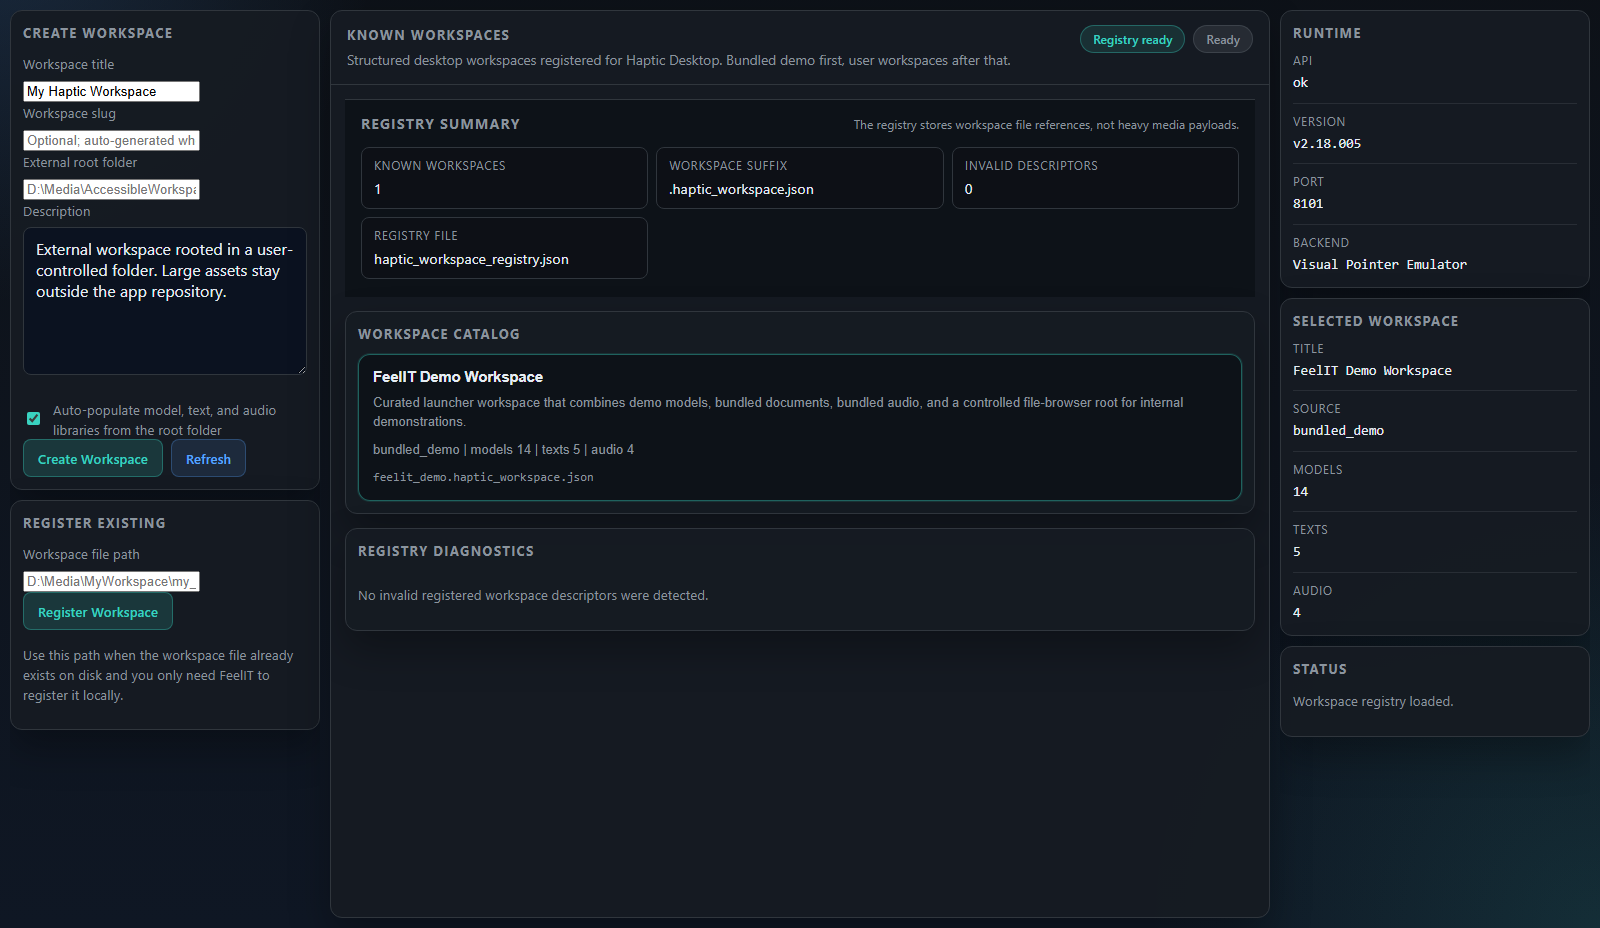
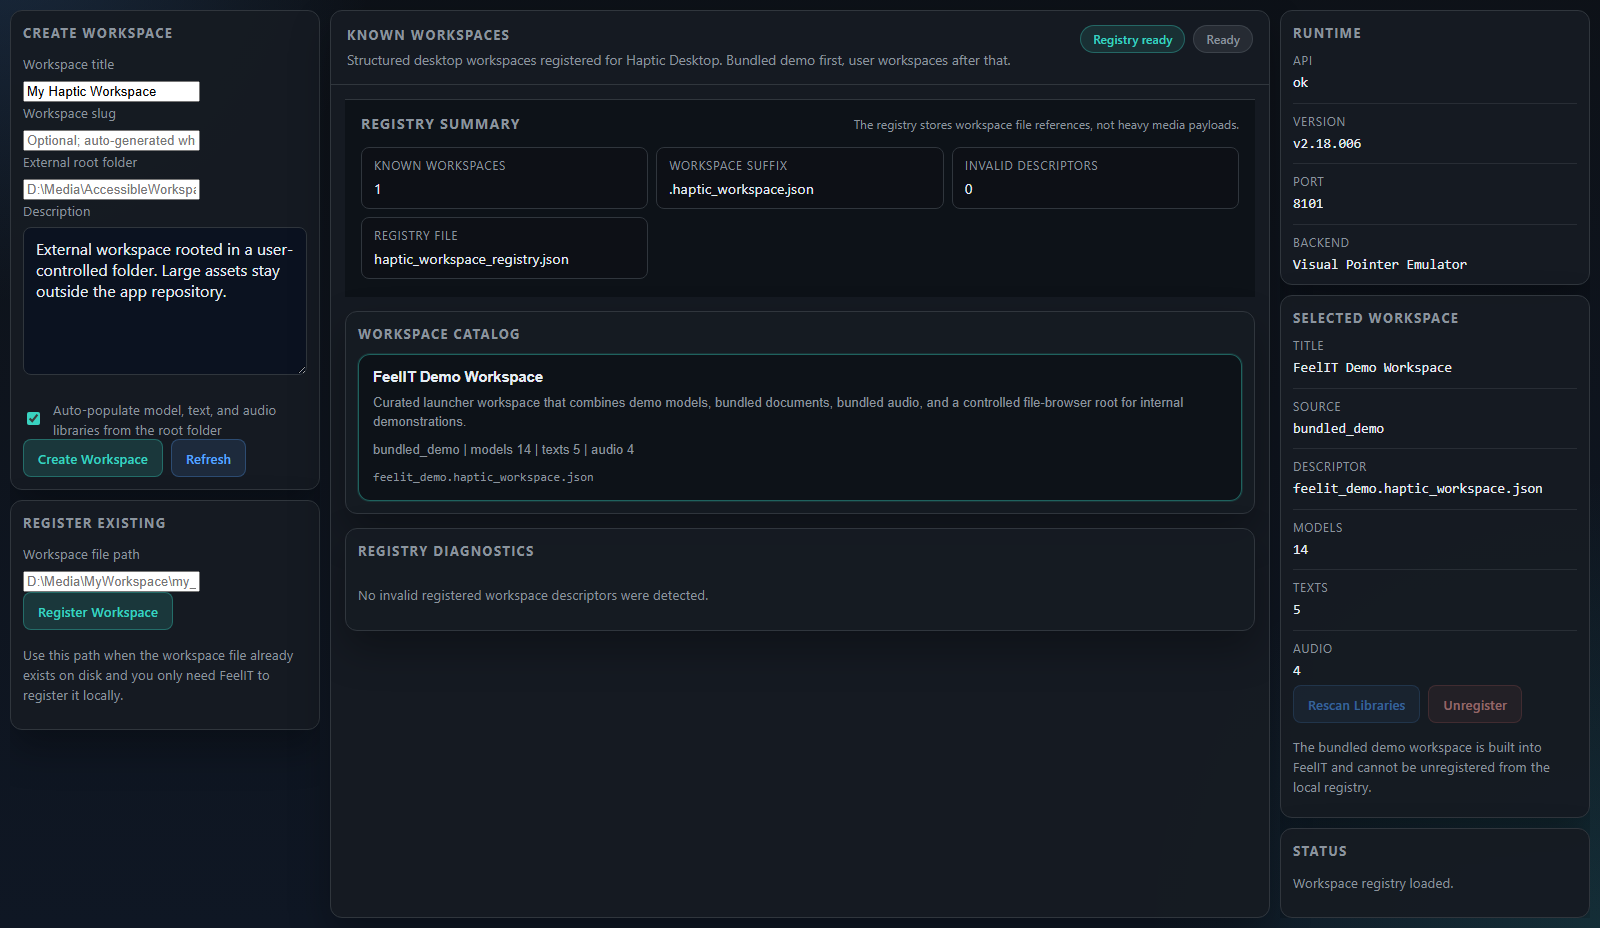
Expose workspace lifecycle controls in the manager UI

diff --git a/app/static/js/haptic_workspace_manager.js b/app/static/js/haptic_workspace_manager.js
@@ -19,21 +19,45 @@ function setStatus(message, pillText = message) {
   byId("manager-page-status").textContent = pillText;
 }
 
+function selectedWorkspace() {
+  return state.workspaces.find((workspace) => workspace.slug === state.selectedSlug) ?? null;
+}
+
+function syncSelectedWorkspaceActions(workspace) {
+  const canManage = Boolean(workspace?.can_unregister);
+  byId("rescan-workspace").disabled = !workspace?.can_rescan;
+  byId("unregister-workspace").disabled = !canManage;
+
+  if (!workspace) {
+    byId("selected-workspace-action-note").textContent =
+      "Select one registry-backed workspace to manage its lifecycle.";
+    return;
+  }
+
+  byId("selected-workspace-action-note").textContent = canManage
+    ? "Rescan rebuilds the library lists from the current workspace root. Unregister removes the descriptor reference from the local registry only."
+    : "The bundled demo workspace is built into FeelIT and cannot be unregistered from the local registry.";
+}
+
 function renderSelectedWorkspace(workspace) {
   if (!workspace) {
     byId("selected-workspace-title").textContent = "--";
     byId("selected-workspace-source").textContent = "--";
+    byId("selected-workspace-file").textContent = "--";
     byId("selected-workspace-models").textContent = "--";
     byId("selected-workspace-texts").textContent = "--";
     byId("selected-workspace-audio").textContent = "--";
+    syncSelectedWorkspaceActions(null);
     return;
   }
 
   byId("selected-workspace-title").textContent = workspace.title;
   byId("selected-workspace-source").textContent = workspace.registry_source;
+  byId("selected-workspace-file").textContent = workspace.workspace_file_label;
   byId("selected-workspace-models").textContent = String(workspace.category_counts.models);
   byId("selected-workspace-texts").textContent = String(workspace.category_counts.texts);
   byId("selected-workspace-audio").textContent = String(workspace.category_counts.audio);
+  syncSelectedWorkspaceActions(workspace);
 }
 
 function renderWorkspaceList() {
@@ -109,7 +133,34 @@ function renderInvalidWorkspaceList() {
     path.className = "workspace-card-path";
     path.textContent = workspace.workspace_file_label;
 
-    card.append(title, description, meta, path);
+    const actions = document.createElement("div");
+    actions.className = "workspace-card-actions";
+
+    if (workspace.can_repair) {
+      const repairButton = document.createElement("button");
+      repairButton.type = "button";
+      repairButton.className = "btn btn-secondary";
+      repairButton.textContent = "Repair + Rescan";
+      repairButton.addEventListener("click", () => {
+        repairInvalidWorkspace(workspace).catch((error) => setStatus(error.message, "Repair failed"));
+      });
+      actions.appendChild(repairButton);
+    }
+
+    if (workspace.can_unregister) {
+      const forgetButton = document.createElement("button");
+      forgetButton.type = "button";
+      forgetButton.className = "btn btn-danger";
+      forgetButton.textContent = "Forget Entry";
+      forgetButton.addEventListener("click", () => {
+        unregisterWorkspaceByRegistryKey(workspace.registry_key, workspace.workspace_file_label, "Forgot").catch(
+          (error) => setStatus(error.message, "Forget failed"),
+        );
+      });
+      actions.appendChild(forgetButton);
+    }
+
+    card.append(title, description, meta, path, actions);
     container.appendChild(card);
   });
 }
@@ -176,6 +227,42 @@ async function registerWorkspace() {
   await refreshCatalog();
 }
 
+async function unregisterWorkspaceByRegistryKey(registryKey, workspaceLabel, pillText = "Unregistered") {
+  await fetchJson(`/api/haptic-workspaces/${registryKey}`, {
+    method: "DELETE",
+  });
+  setStatus(`${workspaceLabel} was removed from the local registry.`, pillText);
+  await refreshCatalog();
+}
+
+async function rescanSelectedWorkspace() {
+  const workspace = selectedWorkspace();
+  if (!workspace?.can_rescan) {
+    return;
+  }
+  const response = await fetchJson(`/api/haptic-workspaces/${workspace.slug}/rescan`, {
+    method: "POST",
+  });
+  setStatus(`Rescanned workspace ${response.workspace.title}.`, "Rescanned");
+  await refreshCatalog();
+}
+
+async function unregisterSelectedWorkspace() {
+  const workspace = selectedWorkspace();
+  if (!workspace?.can_unregister) {
+    return;
+  }
+  await unregisterWorkspaceByRegistryKey(workspace.registry_key, workspace.title);
+}
+
+async function repairInvalidWorkspace(workspace) {
+  const response = await fetchJson(`/api/haptic-workspaces/invalid/${workspace.registry_key}/repair`, {
+    method: "POST",
+  });
+  setStatus(`Repaired workspace ${response.workspace.title}.`, "Repaired");
+  await refreshCatalog();
+}
+
 document.addEventListener("DOMContentLoaded", () => {
   bootWorkspace(
     {
@@ -199,6 +286,12 @@ document.addEventListener("DOMContentLoaded", () => {
       });
       byId("register-workspace").addEventListener("click", () => {
         registerWorkspace().catch((error) => setStatus(error.message, "Register failed"));
+      });
+      byId("rescan-workspace").addEventListener("click", () => {
+        rescanSelectedWorkspace().catch((error) => setStatus(error.message, "Rescan failed"));
+      });
+      byId("unregister-workspace").addEventListener("click", () => {
+        unregisterSelectedWorkspace().catch((error) => setStatus(error.message, "Unregister failed"));
       });
       byId("refresh-workspaces").addEventListener("click", () => {
         refreshCatalog().catch((error) => setStatus(error.message, "Refresh failed"));

diff --git a/app/static/haptic_workspace_manager.html b/app/static/haptic_workspace_manager.html
@@ -139,10 +139,16 @@
           <dl class="info-grid">
             <div><dt>Title</dt><dd id="selected-workspace-title">--</dd></div>
             <div><dt>Source</dt><dd id="selected-workspace-source">--</dd></div>
+            <div><dt>Descriptor</dt><dd id="selected-workspace-file">--</dd></div>
             <div><dt>Models</dt><dd id="selected-workspace-models">--</dd></div>
             <div><dt>Texts</dt><dd id="selected-workspace-texts">--</dd></div>
             <div><dt>Audio</dt><dd id="selected-workspace-audio">--</dd></div>
           </dl>
+          <div class="button-row panel-actions">
+            <button id="rescan-workspace" class="btn btn-secondary" type="button">Rescan Libraries</button>
+            <button id="unregister-workspace" class="btn btn-danger" type="button">Unregister</button>
+          </div>
+          <p id="selected-workspace-action-note" class="panel-text">Select one registry-backed workspace to manage its lifecycle.</p>
         </section>
 
         <section class="panel-section">

diff --git a/app/static/css/style.css b/app/static/css/style.css
@@ -431,6 +431,16 @@ input[type="range"] {
   background: rgba(88, 166, 255, 0.22);
 }
 
+.btn-danger {
+  background: rgba(255, 123, 114, 0.12);
+  color: #ffb0aa;
+  border-color: rgba(255, 123, 114, 0.28);
+}
+
+.btn-danger:hover {
+  background: rgba(255, 123, 114, 0.2);
+}
+
 .btn-link {
   display: inline-flex;
   align-items: center;
@@ -876,6 +886,11 @@ input[type="range"] {
   word-break: break-word;
   font-family: "Consolas", "Courier New", monospace;
   font-size: 0.76rem;
+}
+
+.workspace-card-actions,
+.panel-actions {
+  margin-top: 4px;
 }
 
 .workspace-card-static {

diff --git a/app/core/version.py b/app/core/version.py
@@ -5,7 +5,7 @@ from __future__ import annotations
 import re
 
 APP_NAME = "FeelIT"
-APP_VERSION = "2.18.005"
+APP_VERSION = "2.18.006"
 APP_PUBLISHER = "Felipe Santibanez"
 VERSION_FORMAT = "X.XX.XXX"
 VERSION_PATTERN = re.compile(r"^(?P<major>\d+)\.(?P<minor>\d{2})\.(?P<patch>\d{3})$")

diff --git a/README.md b/README.md
@@ -80,11 +80,11 @@ The contact pipeline captures the current design rule for future native hardware
 | Bundled reading-source formats | `txt`, `html`, `epub` |
 | Local multi-file bundle intake | bundle-aware `gltf` sidecar resolution with explicit main-file selection |
 | Public port | `8101` |
-| Release-synced version | `2.18.005` |
+| Release-synced version | `2.18.006` |
 | Haptic backend candidates tracked | `4` |
 | Native bridge bootstrap surface | toolchain diagnostics + PowerShell bootstrap + JSON probe scaffold |
 | Verified legacy baseline | Braille loading and conversion with optional Falcon-class haptics |
-| Current validation surface | `108` automated tests passing plus browser smoke validation across the `5` routed pages |
+| Current validation surface | `112` automated tests passing plus browser smoke validation across the `5` routed pages |
 | GitHub validation baseline | GitHub Actions runs unit/API validation plus browser smoke on pushes and pull requests |
 
 ## Current Frontend Views
@@ -135,7 +135,7 @@ The configuration route makes the haptic backend problem explicit. It now opens 
 - `3D Object Explorer`: starts from a scene-native object-session launcher, opens bounded exploration scenes for curated or local `OBJ`, `STL`, `glTF`, and `GLB` geometry, validates local uploads in the backend before staging, derives workspace-scale guidance from geometry bounds, supports explicit main-file selection for local bundles, and resolves local `glTF` sidecar bundles when the required files are selected together.
 - `Braille Reader`: starts from a scene-native 3D library launcher, loads bounded document segments, and renders a tactile Braille world with in-scene navigation controls.
 - `Haptic Desktop`: moves between a launcher, paginated galleries, a typed file browser rooted in the bundled assets tree or a user workspace, detail plaques, and opened scenes for models, text, and audio, with server-side browser pagination for larger external roots and an explicit `Navigation Trail` summary that keeps the current scene ancestry visible.
-- `Haptic Workspace Manager`: creates and registers structured `haptic_workspace` descriptors rooted in external folders, surfaces registry diagnostics when registered descriptors are missing or invalid, and now defaults to descriptor-label views instead of exposing absolute local paths.
+- `Haptic Workspace Manager`: creates and registers structured `haptic_workspace` descriptors rooted in external folders, surfaces registry diagnostics when registered descriptors are missing or invalid, defaults to descriptor-label views instead of exposing absolute local paths, and now supports unregister, library rescan, plus conservative invalid-descriptor repair actions.
 - `Haptic Configuration`: tracks the requested runtime backend, the currently active fallback backend, the current native spotlight candidate, vendor SDK roots, native bridge paths, preferred device selectors, build-tool readiness, the compiled bridge probe state, the OpenHaptics default-device probe path, the Force Dimension runtime-enumeration path, reported vendor capability channels, normalized runtime features, verified versus inferred feature evidence, runtime-query frontiers, execution coverage across bounded pilots, and the current contact or material-rendering baseline that the future physical backend must respect while staging the page into explicit Focus, Contracts, Execution, and Bridge review lanes.
 - FeelIT now also ships an explicit scene-to-backend contract baseline so each routed spatial mode declares which tactile primitives, event transitions, telemetry fields, return-flow expectations, and material channels a future native backend must honor. That contract is backed by a reusable primitive-family catalog and a backend-readiness matrix that clarifies which stacks are still diagnostic-only and which ones are closer to consuming real scene semantics.
 - The same configuration route now computes a backend-aware contact rollout plan, so OpenHaptics, Force Dimension, CHAI3D, and the visual emulator each expose one bounded pilot primitive, required force channels, required runtime features, coverage alignment against currently reported backend capabilities, and the next engineering step toward scene-coupled haptics.
@@ -156,7 +156,7 @@ The preserved legacy archive in `legacy/Registro Software` most strongly verifie
 - no current pilot path drives real force output, calibration, homing, or a live scene-coupled servo loop; the shipped OpenHaptics and Force Dimension pilot execution milestones remain bounded no-force bridge steps rather than full actuation
 - 3D asset import now has server-side validation, staging guidance, explicit local-bundle main-file selection, and bundle-aware local `gltf` sidecar resolution, but it still lacks a full server-side preprocessing or repair pipeline
 - document compatibility is currently limited to bundled `txt`, `html`, and `epub`
-- the workspace manager is still a first structured-descriptor baseline rather than a rich authoring suite
+- the workspace manager now covers the core descriptor lifecycle, but it is still not a full authoring suite with preview, deep editing, or asset-level repair workflows
 - the desktop flow already opens models, text, and audio, but it is not yet a full desktop automation environment
 - the current metrics are mostly engineering and delivery metrics, not yet a formal user-study outcome set
 - vendor SDK detection now proves dependency readiness, OpenHaptics conservative default-device probing, Force Dimension device enumeration, and one first bounded no-force execution slice per shipped native pilot, and it now distinguishes symbol-derived-only evidence from runtime-query-ready or runtime-queried frontiers, but it still does not prove live device control, calibration completion, homing, or scene-coupled force output

diff --git a/docs/development_history.md b/docs/development_history.md
@@ -15,6 +15,21 @@ The archived user manual describes the software as a digital-to-relief presentat
 
 ## Modern Rebuild Timeline
 
+### v2.18.006 (2026-04-13)
+
+Add lifecycle actions to the Haptic Workspace Manager so registered descriptors can be rescanned, unregistered, and conservatively repaired from the UI.
+
+Delivered:
+
+- Added registry-backed lifecycle actions for Haptic Workspace Manager workspaces: unregister, library rescan, and invalid-descriptor repair.
+- Extended the FastAPI workspace endpoints plus Python tests so registry operations are covered through both core functions and the public API surface.
+- Updated the manager UI so selected workspaces and invalid registry entries expose lifecycle actions directly instead of remaining read-only diagnostics.
+
+Rationale:
+
+- Workspace management had progressed beyond first registration, so the route needed real recovery and maintenance operations rather than another passive diagnostics panel.
+- The new actions close the most immediate lifecycle gap while leaving richer descriptor editing and preview tooling as a separate future concern.
+
 ### v2.18.005 (2026-04-13)
 
 Extend scene-native control reachability regression coverage from Object Explorer into Braille Reader and Haptic Desktop.

diff --git a/docs/user_guide.md b/docs/user_guide.md
@@ -136,6 +136,9 @@ Current use:
 - register an existing `.haptic_workspace.json` descriptor file
 - review the current workspace catalog before opening a workspace inside Haptic Desktop
 - inspect registry diagnostics when a previously registered workspace file is missing or its descriptor is invalid
+- rescan one registered workspace so its descriptor libraries are rebuilt from the current filesystem root
+- unregister one registered workspace without deleting the heavy external media folder
+- repair one structurally broken descriptor conservatively when the file still exists and its root folder can be inferred safely
 - expect the manager to show descriptor labels and registry file labels by default rather than full absolute local paths
 
 ### 5. Haptic Configuration

diff --git a/docs/implementation_gap_audit.md b/docs/implementation_gap_audit.md
@@ -112,7 +112,7 @@ Still limited:
 - no desktop-wide automation beyond curated content opening and file browsing
 - no support yet for unsupported file types beyond explicit placeholders
 - no real blind-user validation round on the new desktop scene flow
-- no unregister, rescan, or descriptor-repair lifecycle actions yet in the workspace manager
+- no descriptor preview/editor yet beyond the current unregister, rescan, and conservative repair lifecycle actions in the workspace manager
 
 ## Partial Or Prototype-Only Areas
 
